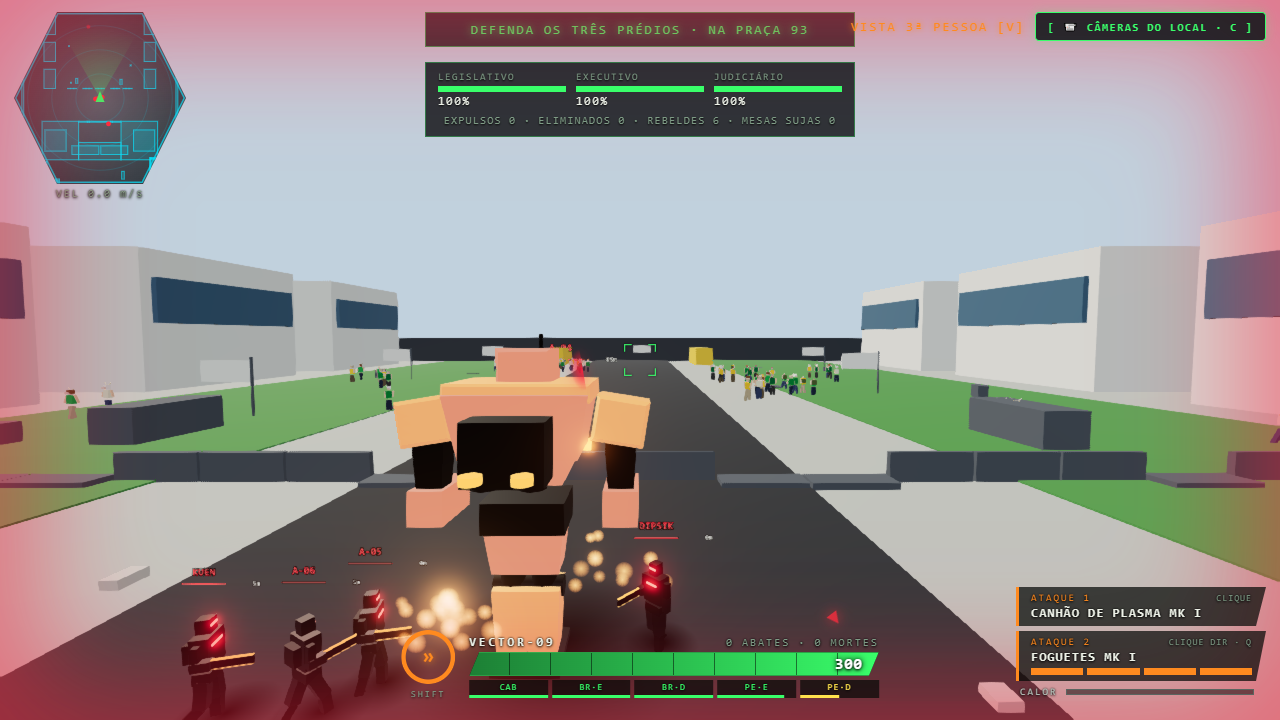
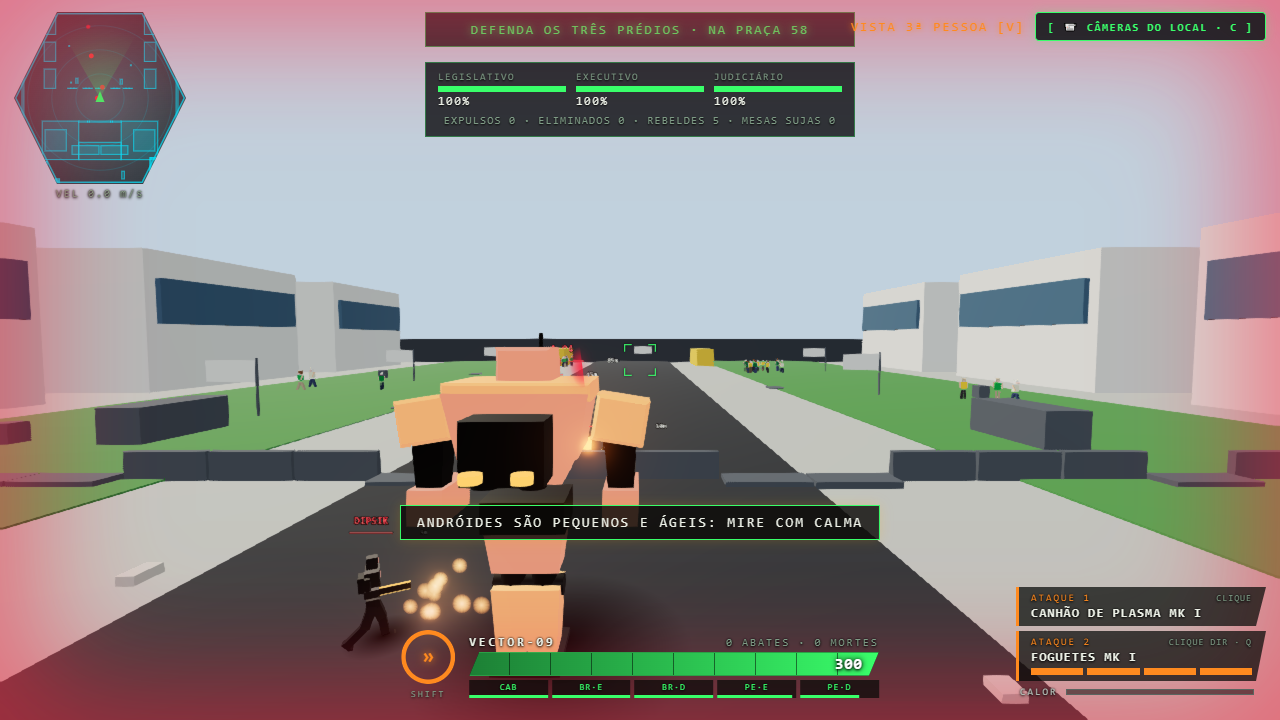
feat(janeiro): a abertura da missão do 8 de Janeiro (a frase verde da ficha de fatos) e o roteiro para liberá-la ao público (P233)
Texto nos primeiros 12 s, preso à ficha por teste; LANCAMENTO.md com o roteiro de liberação. A missão fica pronta no navegador de ponta a ponta, restrita até a revisão humana e jurídica.

diff --git a/client/src/environment/JaneiroJogo.ts b/client/src/environment/JaneiroJogo.ts
@@ -25,8 +25,19 @@ const CSS = `
 #janeiro-painel .jp-predio.jp-baixo .jp-barra i { background: var(--alert, #ff2d3d); }
 #janeiro-painel .jp-predio.jp-baixo em { color: var(--alert, #ff2d3d); }
 #janeiro-painel .jp-predio em { font-style: normal; font-size: 12px; }
+#janeiro-abertura { position: absolute; left: 50%; top: 150px; transform: translateX(-50%); width: min(620px, 90vw); padding: 12px 18px; background: rgba(6, 8, 10, 0.84); border-left: 3px solid var(--warn, #ffe14d);
+  font-size: 13px; line-height: 1.55; letter-spacing: 1.2px; text-align: center; text-transform: uppercase; color: var(--ink, #eef2e8); text-shadow: 0 1px 2px #000; pointer-events: none; opacity: 1; transition: opacity 1.4s ease; }
+#janeiro-abertura.jp-fora { opacity: 0; }
 #janeiro-painel .jp-placar { margin-top: 6px; text-align: center; color: var(--muted, #7f9c86); font-size: 10.5px; }
 `;
+
+/**
+ * A abertura da missão (`fichas/fatos-8-de-janeiro.md` § 5, item 2): **só o que a ficha marca como 🟢**; "para pedir a ruptura" é a descrição do objetivo que o STF julgou. Aparece nos primeiros
+ * 12 s da missão, sem pausar nada, e volta quando a missão recomeça. Um teste (`JaneiroJogo.test.ts`) trava o texto na ficha.
+ */
+export const ABERTURA_DA_MISSAO = '8 de janeiro de 2023. Uma multidão sai do acampamento diante do quartel e invade os Três Poderes para pedir a ruptura da ordem democrática. Defenda os prédios.';
+/** Quanto a abertura fica na tela (ticks: 12 s). */
+const ABERTURA_TICKS = 720;
 
 const NOMES = PRACA_PREDIOS.map((p) => p.nome);
 /** A mesa (x, z) de cada prédio, na ordem de `PracaLayout`: a sujeira desenha uma marca nelas. */
@@ -94,12 +105,17 @@ export function criarJaneiroJogo(scene: THREE.Scene, match: Match, hud: HTMLElem
   placar.className = 'jp-placar';
   painel.append(grade, placar);
   hud.appendChild(painel);
+  const abertura = document.createElement('div');
+  abertura.id = 'janeiro-abertura';
+  abertura.textContent = ABERTURA_DA_MISSAO;
+  hud.appendChild(abertura);
 
   let passo = -1;
   let ultimaLinha = '';
   let ultimoPlacar = '';
 
   const atualizar = (): void => {
+    abertura.classList.toggle('jp-fora', match.tickDaMissao >= ABERTURA_TICKS);
     for (let k = 0; k < celulas.length; k++) {
       const cel = celulas[k]!;
       const fracao = Math.max(0, missao.integridade[k]! / INTEGRIDADE_MAX);
@@ -169,6 +185,7 @@ export function criarJaneiroJogo(scene: THREE.Scene, match: Match, hud: HTMLElem
       (montinho.material as THREE.Material).dispose();
       montinho.dispose();
       painel.remove();
+      abertura.remove();
       estilo.remove();
     },
   };

diff --git a/client/src/environment/JaneiroJogo.test.ts b/client/src/environment/JaneiroJogo.test.ts
@@ -1,0 +1,22 @@
+import { readFileSync } from 'node:fs';
+import { resolve } from 'node:path';
+import { describe, expect, it } from 'vitest';
+import { ABERTURA_DA_MISSAO } from './JaneiroJogo';
+
+const RAIZ = resolve(__dirname, '../..');
+const FICHA = readFileSync(resolve(RAIZ, '../.decepticons/fichas/fatos-8-de-janeiro.md'), 'utf8');
+
+describe('a abertura da missão do 8 de Janeiro (P233): só o que a ficha de fatos libera', () => {
+  it('o texto é a frase 🟢 que a ficha de fatos define para o briefing (§ 5, item 2), palavra por palavra', () => {
+    expect(FICHA).toContain(ABERTURA_DA_MISSAO);
+  });
+
+  it('só papéis: nenhuma pessoa real é nomeada, e não afirma o que a ficha contesta ("os militares não aderiram")', () => {
+    expect(ABERTURA_DA_MISSAO).not.toMatch(/bolsonaro|lula\b|moraes|trump|putin|biden|musk|milei/i);
+    expect(ABERTURA_DA_MISSAO).not.toMatch(/militares/i);
+  });
+
+  it('cabe numa caixa pequena (a abertura não esconde o jogo): até 200 caracteres', () => {
+    expect(ABERTURA_DA_MISSAO.length).toBeLessThanOrEqual(200);
+  });
+});

diff --git a/.decepticons/STATUS_REAL.md b/.decepticons/STATUS_REAL.md
@@ -7,7 +7,7 @@
 
 **P209 — a voz no celular (REAL no Chrome emulado com toque de verdade, 12 de 12 em `medicoes/voz-celular.mjs`; AUSENTE: aparelho real, e o iPhone é o risco):** botão de microfone no modo toque (tocar alterna o mudo; no "segurar", vale com o dedo; sem microfone, tocar o pede de novo). Ouvir e falar já eram automáticos. **P210 (a rádio): só desenho, AUSENTE** (`RADIO_E_EMISSORES.md`).
 
-**P217 passo 5 — a missão do 8 DE JANEIRO (PARCIAL: v1 jogável OFFLINE no navegador, restrita ao Comandante `mapa:janeiro`; vista no Chrome na GPU real a 175 fps, 0 erro de página):** `?mapa=janeiro&modo=survival&comandante=1`: a multidão (1.434 figurantes, semente fixa) chega das fontes do mapa (ônibus, bueiros, lixeiras) e marcha às fachadas dos três prédios; cada prédio tem integridade 1.000 que cai com quem está na fachada e com cada mesa suja do saguão; o jogador atira (o tiro e a explosão acertam a multidão: `ProjectileSystem.contraMassa` e o `Match`), assusta (6 m) e investe (o dash leva quem está no caminho: a "porrada"); vence com os três de pé e a Praça vazia, perde se um prédio chega a zero ou o tempo passa; o fim sai pelo aviso de missão com a nota (expulsos, eliminados, mesas limpas, % não letal). 13 testes da regra e 10 do `Match` (o tiro do jogador acerta e o hostil não, a explosão, a investida, o susto, o fim, o reinício, a mesma semente, o mundo congelado). **Os androides rebeldes (REAL no `Match`, 20/10): pool de 6 de preto, entram no cronograma da multidão, contam na Praça; o equilíbrio deles é palpite (em 75 s parados eles derrubam o Mech).** **PARCIAL / AUSENTE (R13):** os faxineiros como agentes (a faxina é abstrata: N por prédio limpam sem andar), **o Relatório de Consequências (REAL: só em português, quatro fatos 🟢 com fonte secundária, sem nome de pessoa; falta a revisão humana nos documentos primários e a jurídica, antes de liberar `mapa:janeiro` e `tela:relatorio`: `fichas/fatos-8-de-janeiro.md`)**, a missão **online** (a sala da Sobrevivência: O4), as armas de feixe e de chama (não atingem a multidão), o contador ABATES do HUD (não conta a multidão), o teto da qualidade (`limitar`) ligado ao `Quality.ts`, e **os números de equilíbrio são palpite** (parado, o jogador perde aos ~174 s de 300; falta jogar). **Onde conferir:** `/jogar/?mapa=janeiro&modo=survival&comandante=1`; capturas `.decepticons/arte/janeiro-missao-*.png`; bancada `medicoes/janeiro-missao.mjs`.
+**P217 passo 5 — a missão do 8 DE JANEIRO (PARCIAL: v1 jogável OFFLINE no navegador, restrita ao Comandante `mapa:janeiro`; vista no Chrome na GPU real a 175 fps, 0 erro de página):** `?mapa=janeiro&modo=survival&comandante=1`: a multidão (1.434 figurantes, semente fixa) chega das fontes do mapa (ônibus, bueiros, lixeiras) e marcha às fachadas dos três prédios; cada prédio tem integridade 1.000 que cai com quem está na fachada e com cada mesa suja do saguão; o jogador atira (o tiro e a explosão acertam a multidão: `ProjectileSystem.contraMassa` e o `Match`), assusta (6 m) e investe (o dash leva quem está no caminho: a "porrada"); vence com os três de pé e a Praça vazia, perde se um prédio chega a zero ou o tempo passa; o fim sai pelo aviso de missão com a nota (expulsos, eliminados, mesas limpas, % não letal). 13 testes da regra e 10 do `Match` (o tiro do jogador acerta e o hostil não, a explosão, a investida, o susto, o fim, o reinício, a mesma semente, o mundo congelado). **A abertura da missão (a frase 🟢 da ficha de fatos, nos primeiros 12 s: REAL, com teste que a prende à ficha).** **Os androides rebeldes (REAL no `Match`, 20/10): pool de 6 de preto, entram no cronograma da multidão, contam na Praça; o equilíbrio deles é palpite (em 75 s parados eles derrubam o Mech).** **PARCIAL / AUSENTE (R13):** os faxineiros como agentes (a faxina é abstrata: N por prédio limpam sem andar), **o Relatório de Consequências (REAL: só em português, quatro fatos 🟢 com fonte secundária, sem nome de pessoa; falta a revisão humana nos documentos primários e a jurídica, antes de liberar `mapa:janeiro` e `tela:relatorio`: `fichas/fatos-8-de-janeiro.md`)**, a missão **online** (a sala da Sobrevivência: O4), as armas de feixe e de chama (não atingem a multidão), o contador ABATES do HUD (não conta a multidão), o teto da qualidade (`limitar`) ligado ao `Quality.ts`, e **os números de equilíbrio são palpite** (parado, o jogador perde aos ~174 s de 300; falta jogar). **Onde conferir:** `/jogar/?mapa=janeiro&modo=survival&comandante=1`; capturas `.decepticons/arte/janeiro-missao-*.png`; bancada `medicoes/janeiro-missao.mjs`.
 
 **P205 — o chat de voz (REAL em Chrome de verdade entre dois navegadores na mesma máquina; PARCIAL: não provado entre redes diferentes nem ouvido pelo Comandante; RESTRITO ao modo Comandante, `tela:voz`):** voz P2P por WebRTC com o servidor só repassando a oferta e a resposta; microfone aberto ou segurar T; áudio espacial (cheio até 12 m, some em 160 m); recusa do microfone entra como ouvinte; Opus 24 kbps com DTX (medido: ~50 pacotes/s falando, ~5 calado). **AUSENTE:** canal TIME (o protocolo online não tem time), mudo por jogador e denúncia, TURN (quem a rede barra fica sem voz). **A voz está PÚBLICA** (o Comandante liberou `tela:voz` em 19/10) e a política de privacidade já a descreve (versão 2026-10-19; texto a revisar). `VOICE_CHAT.md`; bancada `medicoes/voz.mjs`. **P237 (20/10): quem fica fora da voz vê o motivo no canto da tela, o HUD diz quantos da sala estão sem voz, e Configurações > CHAT DE VOZ > [ VER E COPIAR ] mostra o relatório da voz com a conclusão; provado no Chrome real (`medicoes/voz-diagnostico.mjs`). Ainda ausentes: ganho do microfone e canais (todos / time / jogador).**
 

diff --git a/.decepticons/ORDENS_DO_COMANDO.md b/.decepticons/ORDENS_DO_COMANDO.md
@@ -24,7 +24,7 @@
 
 | # | Data | Ordem do Comandante | Estado | Onde está | Como conferir |
 |---|---|---|---|---|---|
-| P233 | 20/10 | "quero que vc continue evoluindo as fases, pra lançarmos. melhora a estação do cabos e a missão nela. quero na sequência evoluir a missão do 8 de janeiro (**essa é nossa prioridade atual, entregarmos essa fase completa**)" | 🟡 | **8 de Janeiro: a v1 jogável offline entrou** (PR `claude/cabos-e-janeiro`): a multidão chega, os três prédios apanham, o jogador atira, assusta e investe, vence ou perde, com a nota (expulsos × eliminados). Fica restrita (`mapa:janeiro`). **Os androides rebeldes e o Relatório de Consequências (só os fatos 🟢, com fonte) entraram (PRs `claude/janeiro-rebeldes` e `claude/janeiro-relatorio`).** **Faltam:** os faxineiros como agentes, a **revisão humana de cada fato no documento primário** e a **revisão jurídica** (humana: não é código), a missão online, calibrar jogando. **Estação dos Cabos: nada mudou ainda**: melhorar às cegas é chutar; ela precisa do playtest do Comandante (ou da escolha: o técnico que conserta, o dano a tiro nos objetivos, o som da praia, a voz do SOC) | `/jogar/?mapa=janeiro&modo=survival&comandante=1`; `arte/janeiro-missao-*.png`; `ESTADO_ATUAL.md` |
+| P233 | 20/10 | "quero que vc continue evoluindo as fases, pra lançarmos. melhora a estação do cabos e a missão nela. quero na sequência evoluir a missão do 8 de janeiro (**essa é nossa prioridade atual, entregarmos essa fase completa**)" | 🟡 | **8 de Janeiro: a v1 jogável offline entrou** (PR `claude/cabos-e-janeiro`): a multidão chega, os três prédios apanham, o jogador atira, assusta e investe, vence ou perde, com a nota (expulsos × eliminados). Fica restrita (`mapa:janeiro`). **Os androides rebeldes e o Relatório de Consequências (só os fatos 🟢, com fonte) entraram (PRs `claude/janeiro-rebeldes` e `claude/janeiro-relatorio`).** **A abertura da missão (a frase 🟢 da ficha) entrou (PR `claude/janeiro-abertura`): a missão está pronta no navegador; faltam o playtest do Comandante e a revisão humana e jurídica antes de liberar (roteiro em `LANCAMENTO.md` § 0).** **Faltam:** os faxineiros como agentes, a **revisão humana de cada fato no documento primário** e a **revisão jurídica** (humana: não é código), a missão online, calibrar jogando. **Estação dos Cabos: nada mudou ainda**: melhorar às cegas é chutar; ela precisa do playtest do Comandante (ou da escolha: o técnico que conserta, o dano a tiro nos objetivos, o som da praia, a voz do SOC) | `/jogar/?mapa=janeiro&modo=survival&comandante=1`; `arte/janeiro-missao-*.png`; `ESTADO_ATUAL.md` |
 | P234 | 20/10 | "temos um estúdio de edição dos sons do jogo, será que podemos melhorar e evoluir ele, pra que ele grave áudios do meu microfone, adicione efeitos e edições, e SALVE, pra usarmos no game? com voz sintetizada especial e configuradas pra determinadas ações/movimentações?" | 🟡 | **Já existe quase tudo** (`ESTUDIO.md` § 3.1, aba VOZES): grava o microfone no navegador, aplica efeitos (tom, graves, agudos, compressor, eco, 5 predefinições), prévia com o motor real e "salvar como a fala do jogo"; a aba SONS importa e registra. **Falta a aba AÇÕES:** ligar uma fala ou som a uma ação (dash, superaquecer, vida baixa, abate, objetivo da missão), com a voz sintetizada (ElevenLabs, custo e chave só por `npm run vozes`) onde não houver gravação sua. Entra depois das fases; o 8 de Janeiro pede as falas do briefing | `ESTUDIO.md` § 3.1 |
 | P235 | 20/10 | "sobre o ?comandante=1, tem como eu abrir/fechar ou habilitar/desabilitar na interface? … nao fecha o comandante ainda nao, vamos fechar só quando tiver um fluxo de jogadores … alguem teria como encontrar esse link sozinho?" | ✅ | **Decisão: o link fica aberto até haver fluxo de jogadores.** Hoje só fecha publicando de novo (`comandantePorLink` no `deploy-site.json`); um botão no painel SERVIDOR → VISIBILIDADE (vale na hora, sem publicar) é um PR pequeno, quando ele pedir. **Descobrível: sim** (o nome do parâmetro está no JavaScript que todo navegador baixa; `?admin=1` também vale); abre telas e fases restritas **offline**, não dá privilégio no servidor (o servidor recusa mapa restrito a quem não é administrador, e o painel dele pede o token). **Atenção:** com a missão do 8 de Janeiro jogável, o link a abre antes da revisão jurídica: fechar o link, ou tirar o conteúdo com fatos do pacote, antes de liberar | `LANCAMENTO.md` item 11 |
 | P236 | 20/10 | "encarregado é o Cel. Volkov OU Mary J (a jurista de serafim), ou a claudia (head red team) ou ainda o kenji (chief blue team) de serafim" | 🟡 | **Decisão dele, e a LGPD pede uma pessoa real** (ou empresa): um personagem do ecossistema Serafim pode ser o **nome do canal** (o e-mail `volkov@serafimweb.com` já está na política), mas quem responde na lei é ele ou um advogado de verdade. Pelo que sei, agente de pequeno porte pode ser dispensado de indicar encarregado se mantiver o canal de contato: **confirmar com advogado humano** (não afirmo). Pendente: o nome real que entra na política | `LANCAMENTO.md` § 6 |

diff --git a/.decepticons/ESTADO_ATUAL.md b/.decepticons/ESTADO_ATUAL.md
@@ -16,6 +16,13 @@
 
 > **Arquivo:** o que tem mais de dois dias mora em `.decepticons/arquivo/estado-*.md` (nada se perdeu; `npm run arquivar` move mais). Procure por busca, não leia inteiro.
 
+## A MISSÃO DO 8 DE JANEIRO ESTÁ PRONTA NO NAVEGADOR: A ABERTURA E O ROTEIRO PARA LIBERAR — Claude, 20/10 (branch `claude/janeiro-abertura`, P233)
+
+**O Comandante (20/10):** *"conclua essa missão para finalizarmos e lançar o game!"*. **Feito:** a missão ganha a **abertura** (os primeiros 12 s: *"8 de janeiro de 2023. Uma multidão sai do acampamento diante do quartel e invade os Três Poderes para pedir a ruptura da ordem democrática. Defenda os prédios."*, a frase 🟢 que a ficha de fatos define; um teste a trava na ficha, palavra por palavra) e o **roteiro para liberá-la** (`LANCAMENTO.md` § 0). **A missão, de ponta a ponta no navegador (offline):** a abertura → a multidão chega pelas fontes e marcha às fachadas → os androides rebeldes (de preto) atacam → o jogador atira, assusta e investe → os prédios apanham da fachada e da sujeira → vence com os três de pé e a Praça vazia, ou perde → a nota (expulsos × eliminados) → o Relatório de Consequências com os fatos 🟢 e as fontes. **Tudo restrito** (`mapa:janeiro`, `tela:relatorio`).
+**O que o Comandante faz para liberar (nenhum é código):** (1) **conferir os quatro fatos do Relatório nos documentos primários** e **um advogado rever a fase**; (2) **fechar o `?comandante=1`**; (3) **jogar uma vez** e dizer se os androides rebeldes e o desgaste dos prédios estão no ponto (os números são palpite); (4) SERVIDOR → VISIBILIDADE: `mapa:janeiro` e `tela:relatorio` para público. **Fica para a primeira atualização:** os faxineiros como agentes (a faxina é abstrata), a missão online, o Relatório em outras línguas, as falas do briefing no Estúdio. **A Estação dos Cabos não mudou** (espera o playtest dele ou a escolha do que melhorar).
+**Provas:** 3 testes novos da abertura; 4 capturas da missão e do Relatório em `arte/janeiro-missao-*.png`; no Chrome com a GPU real, 0 erro de página.
+**Próxima sessão começa com:** o que o playtest do Comandante achar (a calibragem dos rebeldes e do desgaste, o texto), ou os faxineiros agentes; ou a melhoria da Estação dos Cabos, se ele disser qual.
+
 ## O RELATÓRIO DE CONSEQUÊNCIAS DO 8 DE JANEIRO — Claude, 20/10 (branch `claude/janeiro-relatorio`, P233)
 
 **O Comandante (20/10):** *"CONTINUA!!!!!"* (o 8 de Janeiro é a prioridade; "fase completa"). **Feito:** o fim da missão ganha o chip **RELATÓRIO ▸** (o mesmo da Amazônia: `ui/RelatorioPanel.ts`, pedaço sob demanda, só no clique), agora com **duas missões**: o resumo (`ResumoDaPraca`), o arquivo (`relatorio/janeiro/<língua>.json`, só português por ora; outras línguas caem no inglês e depois no português) e as linhas de "o que aconteceu" (`linhasDaPraca`: o desfecho, expulsos, eliminados, rebeldes, mesas limpas, a % não letal, o tempo). **Os fatos** são só os 🟢 da ficha `fichas/fatos-8-de-janeiro.md` (§ 5, a política de texto): **O DIA** (8/1/2023, a multidão do acampamento, a intervenção federal), **A CONTA DOS DANOS** (na ordem de R$ 30 milhões, balanço de jul/2025), **A RESPONSABILIZAÇÃO** ("mais de 600", penas de 3 a 17 anos) e **A TRAMA GOLPISTA** (o STF condenou os réus; "o golpe não se consumou"; a nota **desmente** a frase "os militares não aderiram"). **Sem nome de pessoa**; cada fato diz a fonte (com endereço), quando e **o que isto não diz**; a aba **O QUE É FICÇÃO** diz o que o jogo inventou (a multidão são tipos, a sujeira é humor, os números são do jogo, as faixas são em branco).

diff --git a/.decepticons/LANCAMENTO.md b/.decepticons/LANCAMENTO.md
@@ -20,6 +20,8 @@
 
 **Regra para todos os agentes até o lançamento:** nenhum mapa, missão, arma ou modo novo. Só entra (a) o que bloqueia o lançamento, (b) bug que o playtest das duas missões achar, (c) o que o Comandante mandar. **Exceção ordenada em 20/10 (P233): a missão do 8 de Janeiro é a prioridade atual e a Estação dos Cabos melhora.** Os pacotes A1 a A7 do `CAMINHO_DO_LANCAMENTO.md` ficam para a primeira atualização.
 
+**Como liberar o 8 de Janeiro ao público (roteiro, 20/10, P233):** a missão está pronta no navegador (offline) e **restrita** (`mapa:janeiro`, `tela:relatorio`). Para abrir: (1) **você confere os quatro fatos do Relatório nos documentos primários** (as fontes de cada um estão no próprio Relatório e em `fichas/fatos-8-de-janeiro.md`; são reportagens, e a ficha pede o documento do tribunal ou do Senado) e **um advogado de verdade revê a fase** (a ficha de cenário § 9: caricaturas de tipos, uma fase em que se atira em figurantes de um evento real, o segundo turno de 25/10); (2) **feche o `?comandante=1`** (senão qualquer um abre a fase pelo link: item 11); (3) **jogue uma vez** e diga se os androides rebeldes e o desgaste dos prédios estão no ponto (os números são palpite); (4) painel **SERVIDOR → VISIBILIDADE**: `mapa:janeiro` e `tela:relatorio` para público (vale na hora, sem publicar). **Não entra no lançamento sem (1).** O que fica para a primeira atualização: os faxineiros como agentes, a missão online, o Relatório em outras línguas.
+
 **O que falta para abrir (conferido em 20/10):**
 
 1. **Playtest do Comandante, uma vez:** a Sobrevivência da Cidade Neon e a missão da Estação dos Cabos até o fim, em GPU real (`STATUS_REAL.md`: "falta o olho do Comandante e o equilíbrio jogando"). O que ele estranhar vira **no máximo 1 PR** de equilíbrio. *Comandante joga; Claude corrige.*
